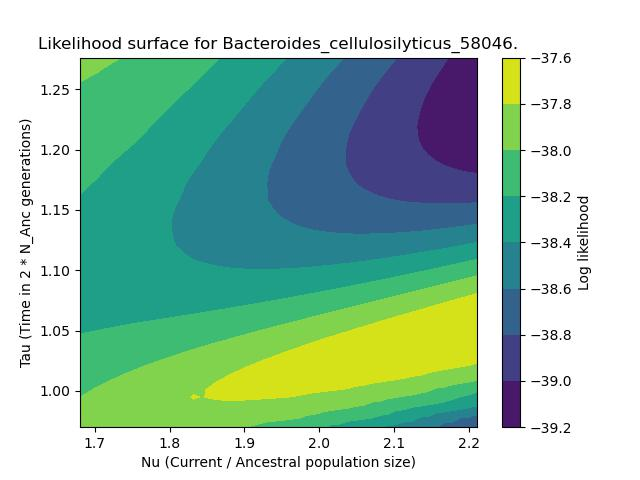
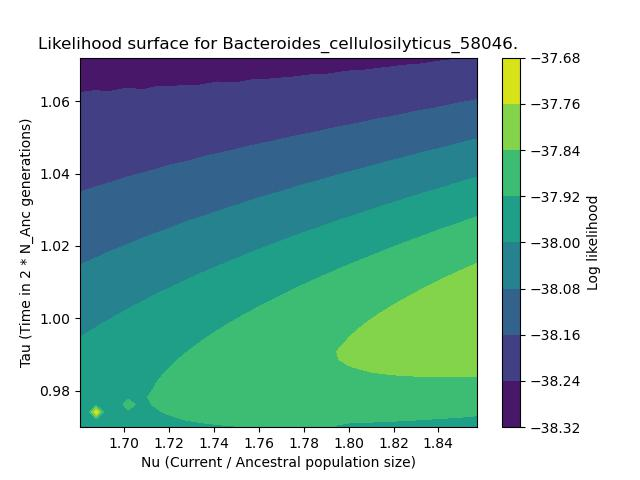
B. cellulosilytiucs

diff --git a/Scripts/plot_likelihood.py b/Scripts/plot_likelihood.py
@@ -466,8 +466,8 @@ class PlotLikelihood():
 
                 npts = 50
 
-                x_range = numpy.linspace(x * 0.95, x * 1.25, npts)
-                y_range = numpy.linspace(y * 0.95, y * 1.25, npts)
+                x_range = numpy.linspace(x * 0.95, x * 1.05, npts)
+                y_range = numpy.linspace(y * 0.95, y * 1.05, npts)
 
                 X, Y = numpy.meshgrid(x_range, y_range)
 
